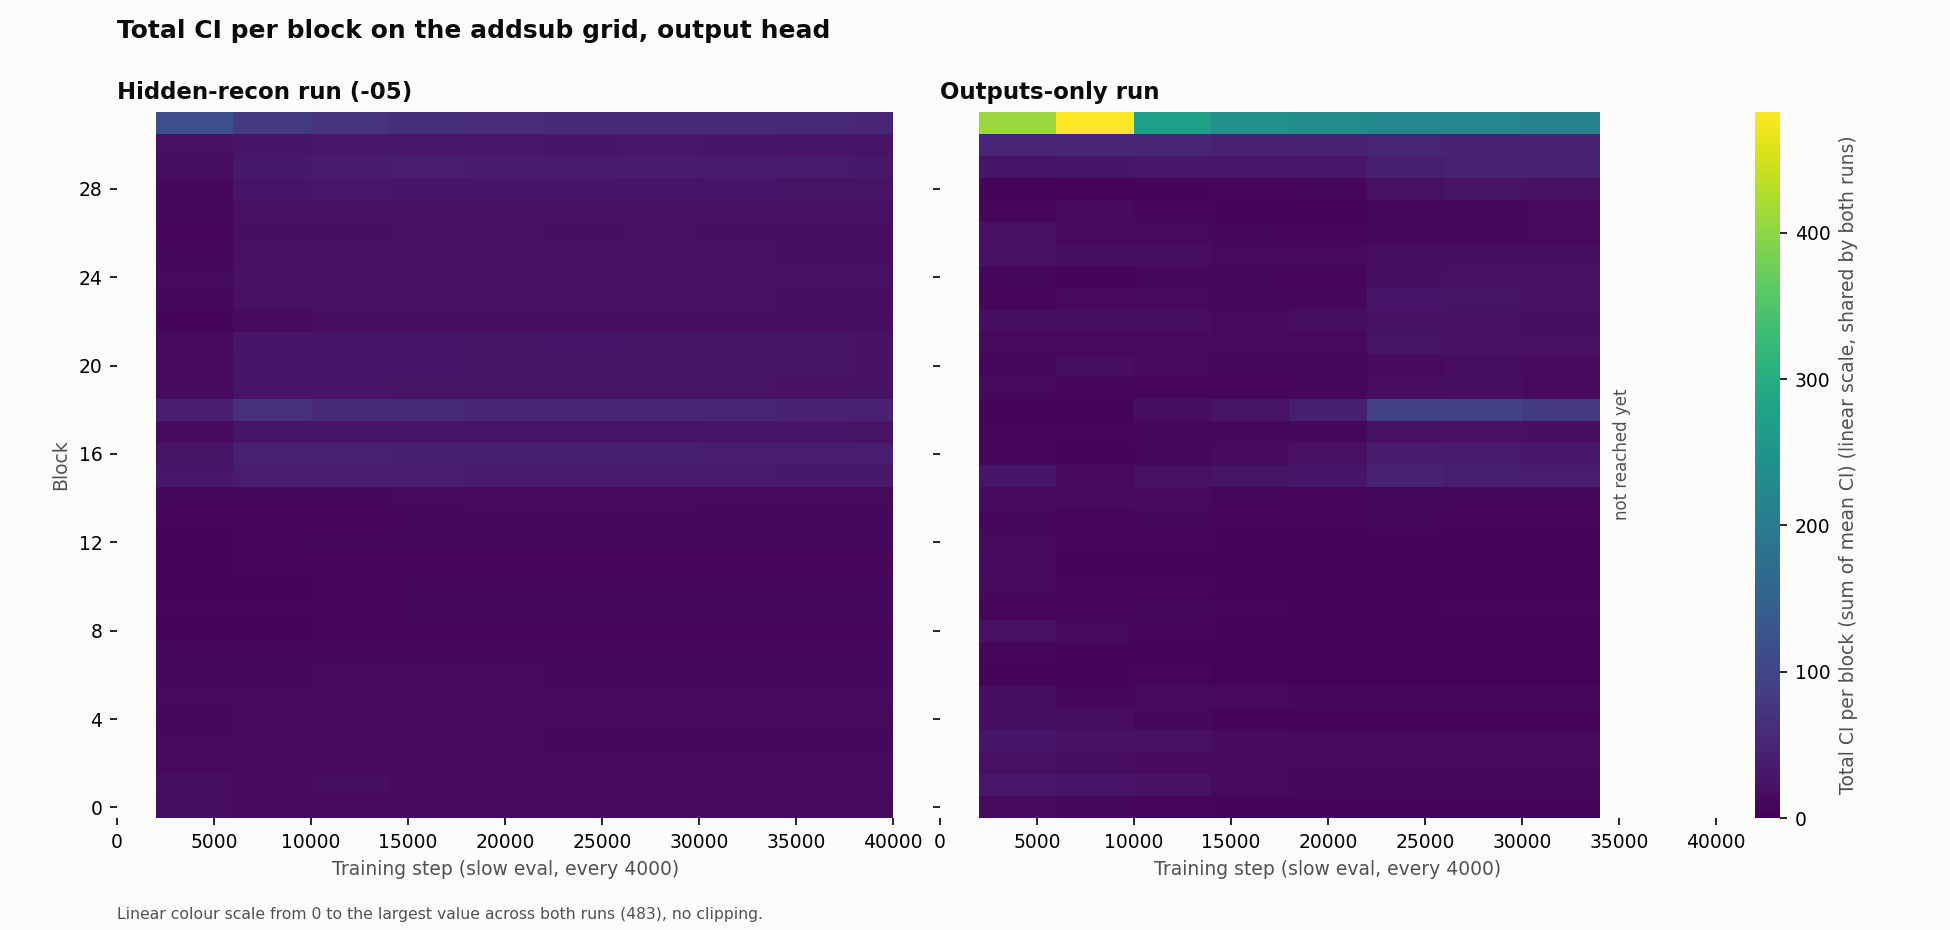
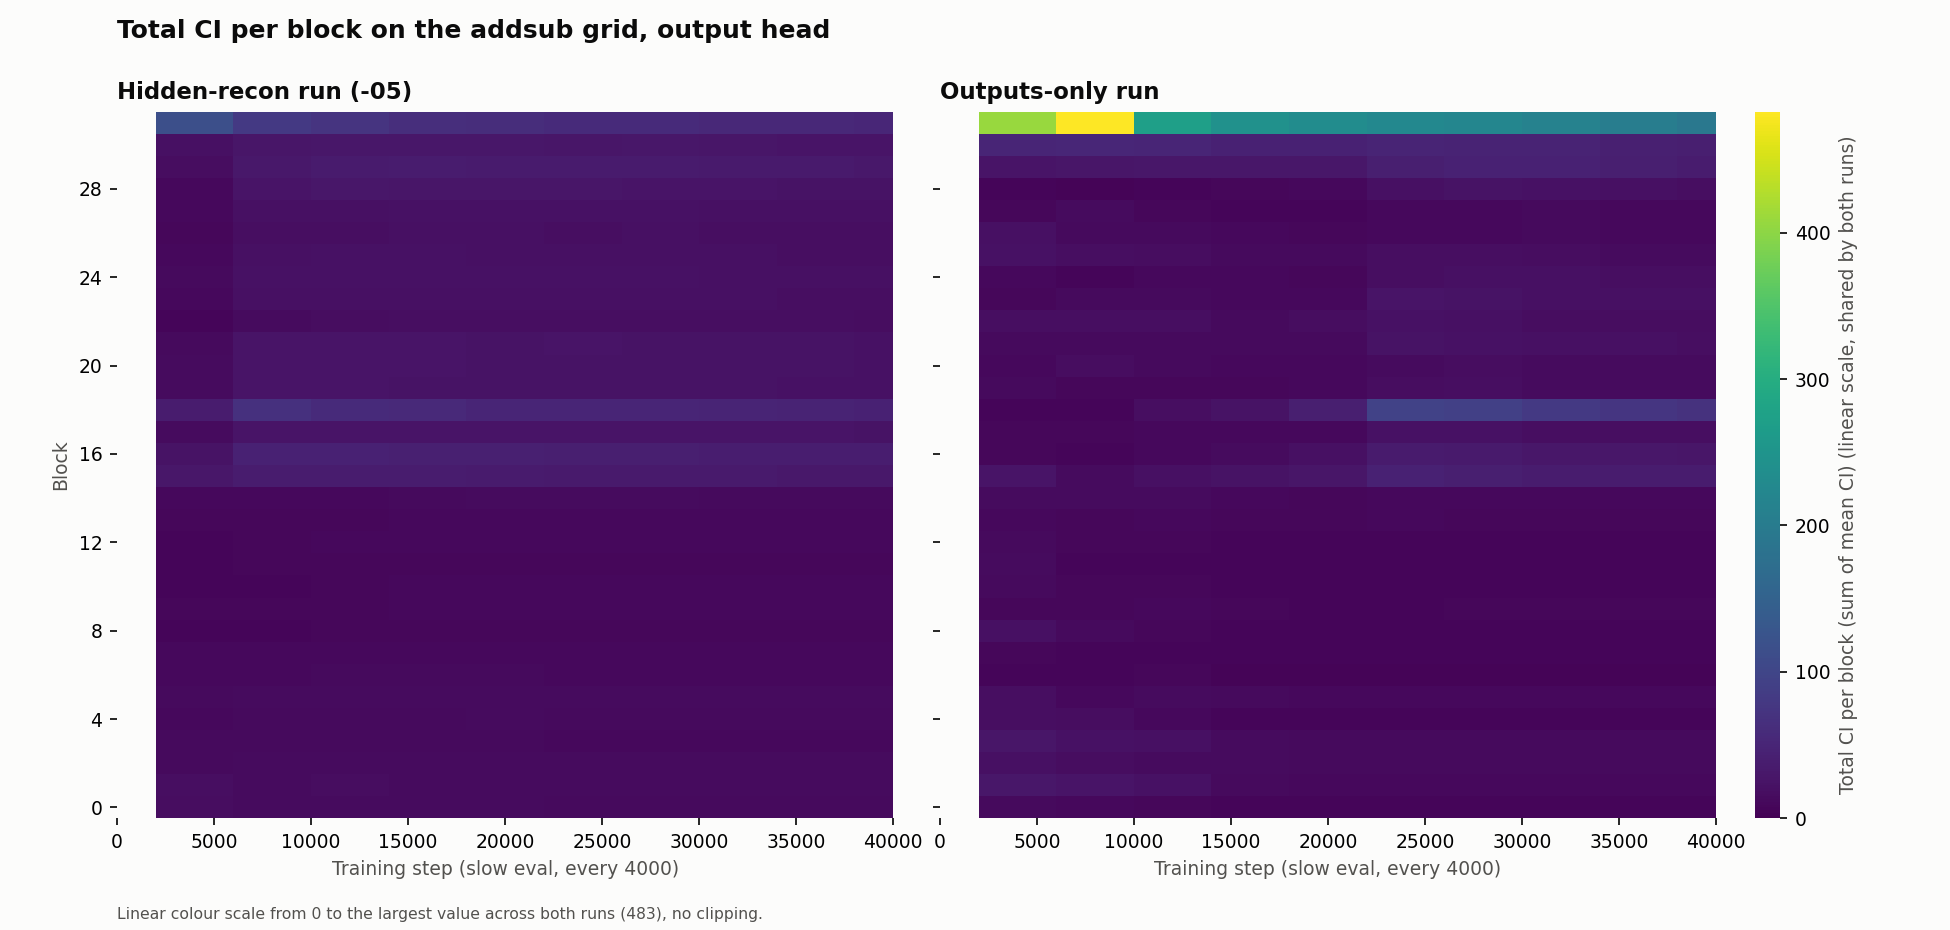
notes(dual_objective): all-alive inner scatter, outputs-only half; final figures
The outputs-only run finished (step 40000, 02:07 UTC) and all six comparison
figures are re-rendered from the complete data.

Adds the all-alive inner-scatter pipeline, which needs no CI filter:
  * collect_inner_scatter.py -- the original model's CI and inner activations
    and the decomposed model's inner activations over the pool, sampling ONE
    on-entry per component as it goes. The filter harvest writes (prompt,
    position, component) tensors -- 454 GB for 11.6k components -- which at
    124,928 components would be tens of TB.
  * plot_inner_scatter_all_alive.py -- the same seven-kind layout.

outputs-only: 6009 of 124928 components ever on (CI > 0.01 over the 20k-prompt
pool), harvested on the A100 pod at step 40000. The -05 half is queued on the
L40s (job 12298): its checkpoint lives only on the cluster and the pod's uplink
(~0.9 MB/s) made a 53 GB push infeasible.

inner_scatter_dual.png becomes inner_scatter_dual_filter_alive.png -- it is the
FILTER's alive set, a different population from the all-alive figures.

Changed region(s): [[0.8, 0.0935, 0.8923, 0.9043]]

diff --git a/notes/dual_objective/addsub-all-layers/collect_inner_scatter.py b/notes/dual_objective/addsub-all-layers/collect_inner_scatter.py
@@ -1,0 +1,207 @@
+#!/usr/bin/env python
+"""Inner activation of every ALIVE component, original model vs decomposed model, with NO CI
+filter — the whole decomposition, not a filter's alive set.
+
+    python collect_inner_scatter.py --run-dir <run> --step N --data-root <root> --out <dir>
+        [--threshold 0.01] [--batch-size 100] [--limit N] [--seed 0]
+        [--operations add sub] [--a-range 1 100] [--b-range 1 100]
+
+Same quantity as `param_decomp/ci_filter/scripts/collect_dataset.py` + `notes/ci_filter/
+plot_inner_scatter.py`: a component's inner activation `x · V_c` at ONE (prompt, position)
+entry drawn uniformly from those where it is ON, in the original model (x) and in the
+decomposed model (y). "On" is the ORIGINAL model's output CI over `threshold`; the decomposed
+forward turns on exactly those components, with the weight delta OFF.
+
+TWO DIFFERENCES FROM THE FILTER VERSION, both because there is no filter here:
+  * the candidate set is EVERY component of the decomposition, not a filter's alive set, and
+    the CI is read unconstrained (no ceilings, no pruning);
+  * a component with no on-entry anywhere in the pool is DEAD and is simply absent from the
+    output — it never gets a sample.
+
+It also samples as it goes instead of writing the full (prompt, position, component) tensors:
+the filter dataset is 454 GB for 11.6k components, which at ~62k components would be tens of
+terabytes. The reservoir is the same "uniform key per on-entry, largest key wins" draw the
+plot script does, so the sample is uniform over on-entries either way. Output is one TSV plus
+meta.json, a few MB.
+
+GPU JOB: run it through SLURM.
+"""
+
+import argparse
+import json
+from pathlib import Path
+
+import equinox as eqx
+import jax
+import jax.numpy as jnp
+import numpy as np
+from jax.sharding import PartitionSpec as P
+from jaxtyping import Array, Int
+
+from param_decomp.ci_filter.config import ArithmeticPoolConfig
+from param_decomp.ci_filter.pool import build_pool, load_tokenizer
+from param_decomp.ci_filter.step import (
+    UNCONSTRAINED,
+    Prepared,
+    gather_rows,
+    output_ci,
+    prepare_components,
+)
+from param_decomp.core.ci_fn import PlacedCIFn
+from param_decomp.core.log import logger, setup_console_logger
+from param_decomp.core.model import MaterializedMasking, PlacedModel, select_captures
+from param_decomp.core.precision import COMPUTE_DT
+from param_decomp.experiments.lm.arithmetic_eval import component_activation_model
+from param_decomp.experiments.lm.load_run import restore_jax_run
+from param_decomp.experiments.lm.resolved import TargetConfig
+from param_decomp.experiments.lm.training import enable_persistent_compilation_cache
+
+
+def make_collect(threshold: float):  # noqa: ANN201 (jitted closure)
+    @eqx.filter_jit
+    def collect(
+        placed: PlacedModel,
+        prepared: Prepared,
+        ci_fn: PlacedCIFn,
+        tokens_all: Int[Array, "N T"],
+        idx: Int[Array, " B"],
+    ) -> tuple[dict[str, Array], dict[str, Array], dict[str, Array]]:
+        """Per site: the original model's output CI and inner activations, and the decomposed
+        model's inner activations, all `(B, T, C)` and replicated for the host."""
+        tokens = gather_rows(tokens_all, idx)
+        keys = frozenset(ci_fn.capture_keys)
+        clean, clean_inner = placed.component_activation_forward(
+            prepared, tokens, capture_keys=keys
+        )
+        lower = output_ci(
+            placed, ci_fn, UNCONSTRAINED, select_captures(clean.captures, ci_fn.capture_keys), False
+        ).lower
+        masking = MaterializedMasking(
+            component_masks={k: (v > threshold).astype(COMPUTE_DT) for k, v in lower.items()}
+        )
+        masked_inner = component_activation_model(placed).masked_component_activations(
+            prepared, tokens, masking, placement=placed.placement
+        )
+        out = [
+            {s: jax.sharding.reshard(v[s].astype(jnp.float32), P()) for s in placed.site_names}
+            for v in (lower, clean_inner, masked_inner)
+        ]
+        return out[0], out[1], out[2]
+
+    return collect
+
+
+class Reservoir:
+    """One uniformly drawn on-entry per component, streamed over batches. Each on-entry gets a
+    uniform key and the largest key wins, which is the plot script's draw exactly."""
+
+    def __init__(self, sites: dict[str, int], seed: int) -> None:
+        self.rng = np.random.default_rng(seed)
+        self.best = {s: np.full(c, -1.0, np.float64) for s, c in sites.items()}
+        self.n_on = {s: np.zeros(c, np.int64) for s, c in sites.items()}
+        self.x = {s: np.full(c, np.nan, np.float32) for s, c in sites.items()}
+        self.y = {s: np.full(c, np.nan, np.float32) for s, c in sites.items()}
+        self.ci = {s: np.full(c, np.nan, np.float32) for s, c in sites.items()}
+
+    def update(
+        self, site: str, lower: np.ndarray, inner: np.ndarray, masked: np.ndarray, threshold: float
+    ) -> None:
+        c = lower.shape[-1]
+        on = (lower > threshold).reshape(-1, c)
+        self.n_on[site] += on.sum(0)
+        keys = np.where(on, self.rng.random(on.shape), -1.0)
+        arg = keys.argmax(0)
+        cols = np.arange(c)
+        won = keys[arg, cols] > self.best[site]
+        self.best[site][won] = keys[arg, cols][won]
+        self.x[site][won] = inner.reshape(-1, c)[arg, cols][won]
+        self.y[site][won] = masked.reshape(-1, c)[arg, cols][won]
+        self.ci[site][won] = lower.reshape(-1, c)[arg, cols][won]
+
+
+def main() -> None:
+    setup_console_logger()
+    ap = argparse.ArgumentParser(description=__doc__)
+    ap.add_argument("--run-dir", type=Path, required=True)
+    ap.add_argument("--step", type=int, default=None, help="checkpoint step (default: latest)")
+    ap.add_argument("--data-root", type=Path, required=True)
+    ap.add_argument("--operations", nargs="+", default=["add", "sub"])
+    ap.add_argument("--a-range", type=int, nargs=2, default=[1, 100])
+    ap.add_argument("--b-range", type=int, nargs=2, default=[1, 100])
+    ap.add_argument("--cache-dir", type=Path, default=Path("~/.cache/param-decomp/xla"))
+    ap.add_argument("--out", type=Path, required=True, help="output directory")
+    ap.add_argument("--threshold", type=float, default=0.01)
+    ap.add_argument("--batch-size", type=int, default=100)
+    ap.add_argument("--limit", type=int, default=None, help="first N prompts only (smoke)")
+    ap.add_argument("--seed", type=int, default=0)
+    a = ap.parse_args()
+
+    # The pool is built here rather than read from a CIFilterConfig yaml: those carry filter
+    # training fields, and an older filter's yaml no longer validates against the schema.
+    pool_config = ArithmeticPoolConfig(
+        operations=tuple(a.operations), a_range=tuple(a.a_range), b_range=tuple(a.b_range)
+    )
+    if a.cache_dir is not None:
+        enable_persistent_compilation_cache(a.cache_dir.expanduser())
+    restored = restore_jax_run(a.run_dir, a.step, data_root=a.data_root)
+    target = restored.deliverable.target
+    assert isinstance(target, TargetConfig)
+    placed, mesh, step = restored.placed, restored.mesh, restored.step
+    pool = build_pool(pool_config, load_tokenizer(target.model_name))
+    n_prompts = pool.n_prompts if a.limit is None else min(a.limit, pool.n_prompts)
+    logger.info(f"{a.run_dir.name} step {step}: {n_prompts} prompts, threshold {a.threshold}")
+
+    with jax.set_mesh(mesh):
+        prepared, v_norms = prepare_components(placed, restored.components)
+        ci_fn = restored.ci_fn
+        sites = {s: int(np.asarray(v_norms[s]).shape[0]) for s in placed.site_names}
+        reservoir = Reservoir(sites, a.seed)
+        tokens_all = jax.sharding.reshard(jnp.asarray(pool.tokens), P())
+        collect = make_collect(a.threshold)
+        starts = range(0, n_prompts, a.batch_size)
+        for i, start in enumerate(starts):
+            idx = jnp.arange(start, min(start + a.batch_size, n_prompts))
+            lower, inner, masked = collect(placed, prepared, ci_fn, tokens_all, idx)
+            for s in placed.site_names:
+                reservoir.update(
+                    s,
+                    np.asarray(lower[s]),
+                    np.asarray(inner[s]),
+                    np.asarray(masked[s]),
+                    a.threshold,
+                )
+            if i % 20 == 0:
+                seen = sum(int((v > 0).sum()) for v in reservoir.n_on.values())
+                logger.info(f"  batch {i + 1}/{len(starts)}: {seen} components on so far")
+
+    a.out.mkdir(parents=True, exist_ok=True)
+    rows = ["site\tlayer\tkind\tcomponent\tn_on\tci\toriginal\tdecomposed\tv_norm"]
+    n_alive = 0
+    for s in sorted(placed.site_names):
+        layer, kind = s.split(".")[1], s.split(".", 2)[2]
+        v_norm = np.asarray(v_norms[s], np.float32)
+        for c in np.flatnonzero(reservoir.n_on[s] > 0):
+            n_alive += 1
+            rows.append(
+                f"{s}\t{layer}\t{kind}\t{c}\t{reservoir.n_on[s][c]}\t{reservoir.ci[s][c]:.6g}\t"
+                f"{reservoir.x[s][c]:.6g}\t{reservoir.y[s][c]:.6g}\t{v_norm[c]:.6g}"
+            )
+    (a.out / "inner_scatter.tsv").write_text("\n".join(rows) + "\n")
+    total = sum(sites.values())
+    meta = {
+        "run_dir": str(a.run_dir),
+        "step": int(step),
+        "threshold": a.threshold,
+        "n_prompts": int(n_prompts),
+        "seq_len": int(pool.seq_len),
+        "n_layer": len({s.split(".")[1] for s in placed.site_names}),
+        "n_components": total,
+        "n_alive": n_alive,
+        "seed": a.seed,
+    }
+    (a.out / "meta.json").write_text(json.dumps(meta, indent=2) + "\n")
+    logger.info(f"{n_alive} of {total} components ever on -> {a.out / 'inner_scatter.tsv'}")
+
+
+if __name__ == "__main__":
+    main()

diff --git a/notes/dual_objective/addsub-all-layers/plot_inner_scatter_all_alive.py b/notes/dual_objective/addsub-all-layers/plot_inner_scatter_all_alive.py
@@ -1,0 +1,89 @@
+#!/usr/bin/env python
+"""Decomposed vs original inner activation of every alive component, one panel per matrix kind.
+
+    python plot_inner_scatter_all_alive.py <harvest dir> <out.png> [title suffix]
+
+`<harvest dir>` is a `collect_inner_scatter.py` output (inner_scatter.tsv + meta.json): one
+row per component that is ever ON, carrying its inner activation `x · V_c` at one randomly
+drawn on-entry in the original model (x) and in the decomposed model (y). Dead components are
+absent from the harvest, so nothing is dropped here.
+
+Same layout as `notes/ci_filter/plot_inner_scatter.py` — seven kind panels, points coloured by
+layer, identity line, equal aspect — so the filter-alive and all-alive figures read alike.
+"""
+
+import json
+import sys
+from pathlib import Path
+
+import matplotlib
+
+matplotlib.use("Agg")
+import matplotlib.pyplot as plt  # noqa: E402
+import numpy as np  # noqa: E402
+
+KINDS = (
+    "self_attn.q_proj",
+    "self_attn.k_proj",
+    "self_attn.v_proj",
+    "self_attn.o_proj",
+    "mlp.gate_proj",
+    "mlp.up_proj",
+    "mlp.down_proj",
+)
+
+
+def main() -> None:
+    harvest, out = Path(sys.argv[1]), Path(sys.argv[2])
+    suffix = sys.argv[3] if len(sys.argv) > 3 else harvest.name
+    meta = json.loads((harvest / "meta.json").read_text())
+    table = np.genfromtxt(
+        harvest / "inner_scatter.tsv", delimiter="\t", names=True, dtype=None, encoding="utf-8"
+    )
+    kind, layer = table["kind"], table["layer"].astype(int)
+    x, y = table["original"].astype(float), table["decomposed"].astype(float)
+
+    fig, axes = plt.subplots(2, 4, figsize=(17, 8.5), constrained_layout=True)
+    norm = plt.Normalize(0, meta["n_layer"] - 1)
+    points = None
+    for ax, k in zip(axes.flat, KINDS, strict=False):
+        sel = (kind == k) & np.isfinite(x) & np.isfinite(y)
+        if not sel.any():
+            ax.set(title=f"{k}  (none alive)")
+            continue
+        lo = min(x[sel].min(), y[sel].min())
+        hi = max(x[sel].max(), y[sel].max())
+        pad = 0.05 * (hi - lo)
+        lims = (lo - pad, hi + pad)
+        ax.plot(lims, lims, "k--", lw=1, zorder=1)
+        order = np.argsort(layer[sel])
+        points = ax.scatter(
+            x[sel][order],
+            y[sel][order],
+            c=layer[sel][order],
+            cmap="viridis",
+            norm=norm,
+            s=14,
+            edgecolors="black",
+            linewidths=0.3,
+            zorder=2,
+        )
+        ax.set(xlim=lims, ylim=lims, aspect="equal", title=f"{k}  (n={int(sel.sum())})")
+        ax.set_xlabel("original model")
+        ax.set_ylabel("decomposed model")
+        ax.grid(alpha=0.25, lw=0.5)
+    axes.flat[-1].set_visible(False)
+    if points is not None:
+        fig.colorbar(points, ax=axes, label="layer", shrink=0.6)
+    fig.suptitle(
+        f"Inner activation x·V_c at one random (prompt, position) where the component is on — {suffix}, "
+        f"ALL {meta['n_alive']} alive of {meta['n_components']} components (no CI filter), "
+        f"{meta['n_prompts']} prompts, step {meta['step']}"
+    )
+    out.parent.mkdir(parents=True, exist_ok=True)
+    fig.savefig(out, dpi=150)
+    print(f"-> {out}")
+
+
+if __name__ == "__main__":
+    main()
